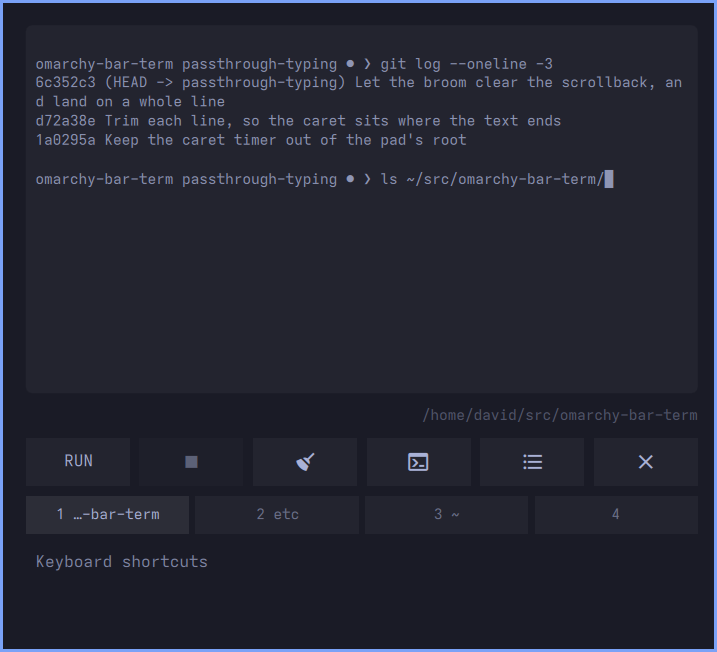
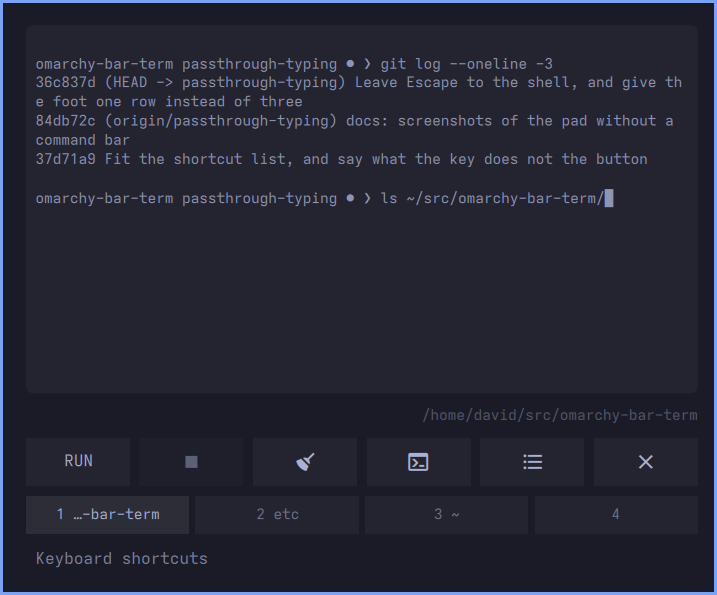
docs: Escape belongs to the shell, and a shorter pad
Claude-Session: https://claude.ai/code/session_01NsuTX3xQbZ1pzCFMGiucjP

diff --git a/README.md b/README.md
@@ -87,7 +87,7 @@ nothing to click first, and nothing to learn that you did not already know.
 </p>
 
 <p align="center">
-  <img src="./assets/readme/keyboard.svg" width="100%" alt="Alt is the pad's and everything else is the shell's: Alt+S lists sessions, Alt+T attaches one to a terminal, Alt+K restarts it, Alt and the arrows or numbers move between tabs, Escape closes; Tab completes, Enter runs, Up walks bash's history, and Ctrl+C, Ctrl+L, Ctrl+R and Ctrl+W do what they always do">
+  <img src="./assets/readme/keyboard.svg" width="100%" alt="Alt is the pad's and everything else is the shell's: Alt+Q closes, Alt+S lists sessions, Alt+T attaches one to a terminal, Alt+K restarts it, Alt and the arrows or numbers move between tabs; Tab completes, Enter runs, Up walks bash's history, Ctrl+C, Ctrl+L and Ctrl+R do what they always do, and Escape reaches whatever is running">
 </p>
 
 <details markdown="1">
@@ -102,12 +102,16 @@ nothing to click first, and nothing to learn that you did not already know.
 | `Alt+K` | Restart this session |
 | `Alt+←` `Alt+→` | Previous and next tab |
 | `Alt+1` … `Alt+4` | Jump to a tab |
-| `Esc` | Close the pad |
+| `Alt+Q` | Close the pad |
 
 **Everything else is the shell's**, typed into the session as you press it. `Tab`
 completes, `Enter` runs, `Up` walks *bash's* history, `Ctrl+R` searches it, `Ctrl+C`
-interrupts, `Ctrl+L` clears, `Ctrl+W` kills a word. There is no line editor of the
-widget's own to be worse than the one you already have.
+interrupts, `Ctrl+L` clears, `Ctrl+W` kills a word, and `Escape` is whatever the thing
+you are running makes of it. There is no line editor of the widget's own to be worse than
+the one you already have.
+
+Closing is `Alt+Q`, the bar icon, or whatever hotkey you bound — not `Escape`, because a
+terminal that swallows `Escape` is no use for most of what gets run in one.
 
 The buttons under the screen do the common ones for you, and are the half you do not have
 to remember. The broom does slightly more than `Ctrl+L`: the key clears the shell's screen,
